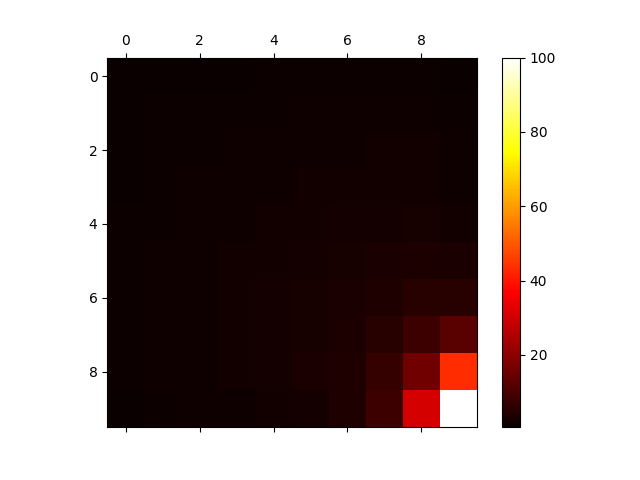
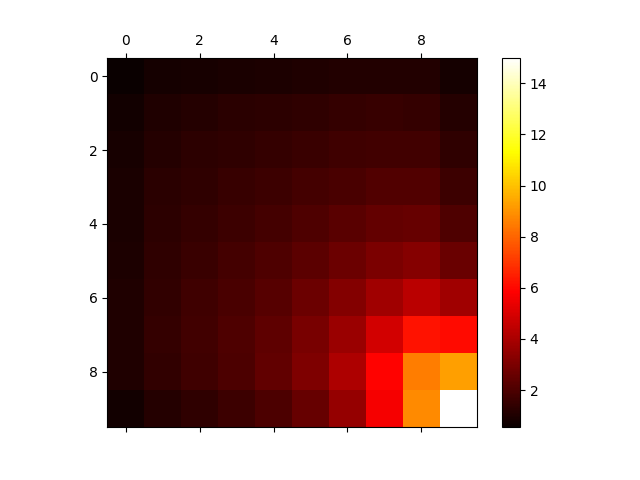
feat: game types

diff --git a/src/map.py b/src/map.py
@@ -1,12 +1,6 @@
 from src.cell import Cell
 from src.direction import Directions
 
-from collections import  namedtuple
-from queue import Queue
-from collections import deque
-
-Node = namedtuple("Node","cell path") 
-
 import pygame as pg
 import math
 
@@ -16,6 +10,8 @@ class Map:
         self.file_path = file_path
         self.robot_inicial_cell: Cell = None
         self.robot_char = "R"
+        self.goal_state_reward = 15
+        
         self.map = self.load_map()
         
         self.rows = len(self.map[0])
@@ -25,13 +21,13 @@ class Map:
         self.height =  self.columns * cell_size
 
         self.show_grid = True
+        self.grid_color = (0,0,0)
         self.lines = self.generate_grid_lines()
 
     def valide_map(self, map: list[list]) -> bool:
         pass
     
     def generate_grid_lines(self) -> None:
-        
         lines = []
         for i in range(1,self.rows):
             x_start =  i * self.cell_size
@@ -48,7 +44,6 @@ class Map:
             start_point = (x_start, y_start)
             end_point = (x_end, y_start)
             lines.append((start_point, end_point))
-
         return lines
         
     def load_map(self) -> list:
@@ -68,7 +63,7 @@ class Map:
                     cell_char = Cell.cell_types["space"].char
                 
                 if cell_char == Cell.cell_types["goal_state"].char:
-                    self.goal_state_position = position
+                    self.goal_state = Cell(self.cell_size, cell_char, position)
                
                 cell = Cell(self.cell_size, cell_char, position)
                 row.append(cell)
@@ -79,7 +74,6 @@ class Map:
         return x >= 0 and y >= 0 and x < self.rows and y <  self.columns 
     
     def move(self, cell: Cell, direction: Directions) -> Cell:
-
         new_position_x = cell.row_index + direction.x
         new_position_y = cell.column_index + direction.y
 
@@ -101,37 +95,11 @@ class Map:
         return ((position[0] /self.width),position[1] /self.height)
 
     def get_reward(self, cell: Cell) -> float:
-        distance = math.dist(self.normalize(cell.position), self.normalize(self.goal_state_position))
-        # distance = len(self.breadthFirstSearch(cell))
-        return  1 / distance if distance else 100
+        distance = math.dist(self.normalize(cell.position), self.normalize(self.goal_state.position))
+        return  1 / distance if distance else self.goal_state_reward
 
-    def breadthFirstSearch(self, start_cell: Cell) -> list[str]:
-        node_queue = deque()
-        visit_cells = set()
-
-        start_path = []
-        start_node = Node(start_cell, start_path)
-
-        node_queue.append(start_node)
-
-        while not len(node_queue) == 0:
-            cell, path = node_queue.pop()
-
-            if self.is_goal_state(cell):
-                return path
-
-            if cell not in visit_cells:
-               visit_cells.add(cell)
-
-            for direction in self.get_valid_moves(cell):
-                new_cell =  self.move(cell, direction)
-                if  new_cell not in visit_cells:
-                    new_path = [*path, direction]
-                    new_node = Node(new_cell, new_path)
-                    node_queue.append(new_node)
-    
     def is_goal_state(self, cell: Cell) -> bool:
-        return cell.position == self.goal_state_position
+        return cell.position == self.goal_state.position
 
     def draw(self, surface: pg.Surface) -> None:
         for row in  self.map:
@@ -140,7 +108,7 @@ class Map:
                       
         if self.show_grid:
             for line in self.lines:
-                pg.draw.line(surface,(0,0,0),line[0],line[1])
+                pg.draw.line(surface, self.grid_color, line[0], line[1])
 
     def __repr__(self) -> str:
         return f"<Map object cell_size = {self.cell_size} file_path = {self.file_path}>"   

diff --git a/src/game.py b/src/game.py
@@ -1,28 +1,27 @@
 from src.map import Map
 from src.robot import Robot
-from src.valueIteration_agent import ValueIterationAgent
 from src.direction import Directions
-from randomly_agent import Randomly
+from src.valueIteration_agent import ValueIterationAgent
+from src.randomly_agent import RandomlyAgent
 
 import pygame as pg
-import time
+
 class Game:
-    def __init__(self, title: str, map_path: str, cell_size: int , fps: int = 120) -> None:
+    def __init__(self, title: str, map_path: str, cell_size: int ,type: str ,fps: int = 30) -> None:
         self.title =  title
         self.map_path = map_path
         self.cell_size = cell_size
+        self.type = type
         self.fps = fps
         self.map = Map(self.cell_size, map_path)
         self.robot = Robot(self.map)
 
         # default
         self.default_background_color = (64,64,64)
-        self.setup()
+        self.value_iteration = ValueIterationAgent(self.map, self.robot)
+        self.randomly = RandomlyAgent(self.map, self.robot)
 
-        # self.value_iteration_agente = ValueIterationAgent(self.map)
-        self.randomly = Randomly(self.map, self.robot, 20_000, 30)
-        # for line in self.value_iteration_agente.values:
-        #     print( line)
+        self.setup()
 
     @property
     def window_size(self):
@@ -32,9 +31,7 @@ class Game:
         pg.init()
         pg.display.set_caption(self.title)
         self.clock = pg.time.Clock()
-
         self.screen = pg.display.set_mode(self.window_size)
-
 
     def run(self) -> None:
         while True:
@@ -53,46 +50,22 @@ class Game:
                 self.close()
 
             if event.type == pg.KEYDOWN:
-                if event.key == pg.K_UP:
-                     _, reward = self.robot.step(Directions.NORTH)
-
-                if event.key == pg.K_DOWN:
-                     _, reward = self.robot.step(Directions.SOUTH)
-
-                if event.key == pg.K_LEFT:
-                     _, reward = self.robot.step(Directions.WEST)
-
-                if event.key == pg.K_RIGHT:
-                    _, reward = self.robot.step(Directions.EAST)
-                print(reward)
+                if self.type == "play":
+                    self.robot.check_events(event.key)
+                
                 
 
     def update(self) -> None:
-        is_last_episode = self.randomly.update()
-        if is_last_episode:
-            exit()
-       
-        # win, reward = self.robot.step(self.value_iteration_agente.get_move(self.robot.current_cell))
-        # self.rewards.append(reward)
-        # if win:
-        #     print("win heehehehehehe")
-        #     pg.quit()
-        #     # fig = plt.figure()
-        #     # ax = fig.add_subplot(111)
+        if self.type == "random":
+            is_last_episode = self.randomly.update()
+            if is_last_episode:
+                exit()
 
-        #     # cax = ax.matshow(self.value_iteration_agente.values, interpolation='nearest', cmap='hot')
-        #     # fig.colorbar(cax)
-
-        #     # plt.savefig("figure2.png")
-        #     self.rewards.pop()
-        #     space = range(len(self.rewards))
-        #     average = np.average(self.rewards)
-        #     standard_deviation = np.std(self.rewards)
-        #     plt.plot(space,self.rewards)
-        #     plt.plot(space,[average for _ in space])
-        #     plt.savefig("figure3.png")
+        if self.type == "value":
+            win = self.value_iteration.update()
+            if win:
+                exit()
         
-        pass
             
     def draw(self) -> None:
         self.screen.fill(self.default_background_color)
@@ -101,7 +74,6 @@ class Game:
         pg.display.update()
 
     def start(self) -> None:
-        self.time_start = time.time()
         self.run()
 
     def __repr__(self) -> str:

diff --git a/src/valueIteration_agent.py b/src/valueIteration_agent.py
@@ -1,29 +1,21 @@
-
-from src.direction import Directions
 from src.cell import Cell
 from src.map import Map
-import random
-
+from src.robot import Robot
+from src.direction import Directions
+from matplotlib import pyplot as plt
 
 class ValueIterationAgent:
-    def __init__(self, map: Map) -> None:
-        self.map= map
+    def __init__(self, map: Map, robot: Robot) -> None:
+        self.map = map
+        self.robot = robot
         self.alpha = 0.2
         self.discount = 0.9
         self.iterations = 30
-        self.directions = [Directions.NORTH, Directions.SOUTH, Directions.WEST, Directions.EAST]
         self.values = self.inicialize_values()
         self.run_value_iterations()
+        self.save_plot()
 
     def inicialize_values(self, is_random: bool = False) -> list[list]:
-        # values = []
-        # for column_index in range(self.map.columns):
-        #     row_values = []
-        #     for row_index in range(self.map.rows):
-        #         cell_values = [0 for _ in range(len(self.directions))]
-        #         row_values.append(cell_values)
-        #     values.append(row_values)
-        # return values
         return [
             [0  for _ in range(self.map.columns)]
             for _ in range(self.map.rows)
@@ -44,15 +36,12 @@ class ValueIterationAgent:
             for row in  self.map.map:
                 for cell in row:
                     if self.map.is_goal_state(cell):
-                        iteration_values[cell.row_index][cell.column_index] = 100
+                        iteration_values[cell.row_index][cell.column_index] = self.map.goal_state_reward
                     else:
                         moves = self.map.get_valid_moves(cell)
                         iteration_values[cell.row_index][cell.column_index] = max([self.get_q_value(cell, move) for move in moves])
             self.values = iteration_values
-            print("="*50)
-            for line in self.values:
-                print([round(value,2) for value in line])
-
+    
     def get_move(self, cell):
         moves = self.map.get_valid_moves(cell)
         values = []
@@ -61,6 +50,22 @@ class ValueIterationAgent:
             values.append(self.values[new_cell.row_index][new_cell.column_index])
         max_index = values.index(max(values))
         return moves[max_index]
+
+    def update(self) -> bool:
+        direction = self.get_move(self.robot.current_cell)
+        win, reward = self.robot.step(direction)
+        return win
+
+    def print_statistics(self) -> None:
+        pass
+
+    def save_plot(self) -> None:
+        figure = plt.figure()
+        ax = figure.add_subplot(111)
+        cax = ax.matshow(self.values, interpolation='nearest', cmap='hot')
+        figure.colorbar(cax)
+        plt.savefig("figure2.png")
+
 
 
        

diff --git a/src/robot.py b/src/robot.py
@@ -15,11 +15,10 @@ class Robot:
 
     def step(self, direction: Directions) -> tuple[bool, float]:
         new_cell = self.map.move(self.current_cell, direction)
-
         if new_cell is None:
             return(False, 0)
-        self.current_cell =  new_cell
 
+        self.current_cell =  new_cell
         return(self.map.is_goal_state(new_cell),  self.map.get_reward(new_cell))
             
     def random_step(self) -> tuple[bool, float]:
@@ -29,6 +28,18 @@ class Robot:
     
     def update(self) -> None:
         pass
+
+    def check_events(self, key) -> None:
+        if key == pg.K_UP:
+            _, reward = self.step(Directions.NORTH)
+        elif key == pg.K_DOWN:
+             _, reward = self.step(Directions.SOUTH)
+        elif key == pg.K_LEFT:
+            _, reward = self.step(Directions.WEST)
+        elif key == pg.K_RIGHT:
+            _, reward = self.step(Directions.EAST)
+
+        print(f"reward: {reward}")
 
     def draw(self, surface) -> None:
         pg.draw.circle(surface,self.color, self.current_cell.center,self.map.cell_size / 4)

diff --git a/src/randomly_agent.py b/src/randomly_agent.py
@@ -2,13 +2,11 @@ from src.map import Map
 from src.robot import Robot
 from matplotlib import pyplot as plt
 
-
-import random
 import time
 import numpy as np
 
-class Randomly:
-    def __init__(self,map: Map, robot: Robot, max_steps_number: int,  max_episode_number: int) -> None:
+class RandomlyAgent:
+    def __init__(self,map: Map, robot: Robot) -> None:
         self.map = map
         self.robot = robot
         self.max_steps_number = 20_000
@@ -17,7 +15,7 @@ class Randomly:
         self.episode_number = 0
         self.episode_reward = 0 
         self.rewards = []
-        self.space = range(max_episode_number)
+        self.space = range(self.max_episode_number)
         self.average = 0
         self.standard_deviation = 0 
         self.start_time = time.time()

diff --git a/main.py b/main.py
@@ -1,14 +1,12 @@
+#Nuno Lima 10/01/2023
 from src.game import Game
 
 def main() -> None:
     map_path = "src\maps\level1.map"
     cell_size = 75
-    
-    game = Game("RL - Challenge" , map_path, cell_size)
+    game_types = ["play", "random","value"] 
+    game = Game("RL - Challenge" , map_path, cell_size, type ="random", fps=10 )
     game.start()
      
-
-
-
 if __name__=="__main__":
     main()

diff --git a/src/direction.py b/src/direction.py
@@ -3,8 +3,8 @@ from collections import namedtuple
 
 class Directions():
     vector_direction = namedtuple("vector_direction", "x y")
-    NORTH = vector_direction(0,1)
-    SOUTH = vector_direction(0,-1)
+    NORTH = vector_direction(0,-1)
+    SOUTH = vector_direction(0,1)
     WEST = vector_direction(-1,0)
     EAST = vector_direction(1,0)
     STOP = vector_direction(0,0) 

diff --git a/src/qlearning_agent.py b/src/qlearning_agent.py
@@ -6,3 +6,5 @@ class QLearningAgent:
         self.map= map
         self.alpha = 0.2
         self.discount = 0.9
+        self.q_values = []
+        
